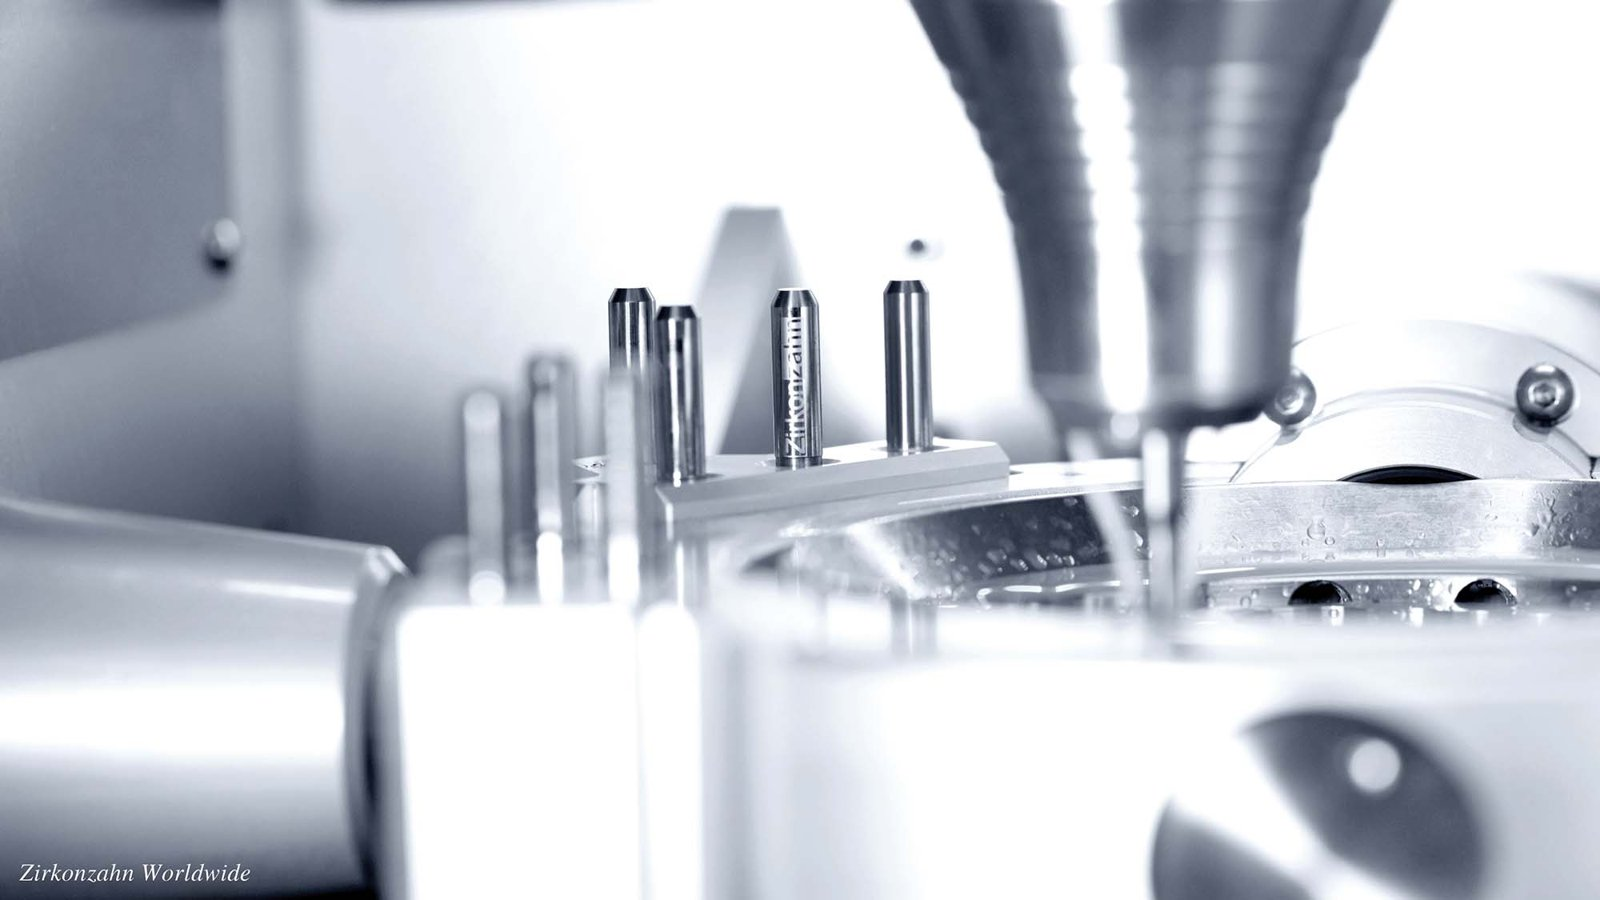
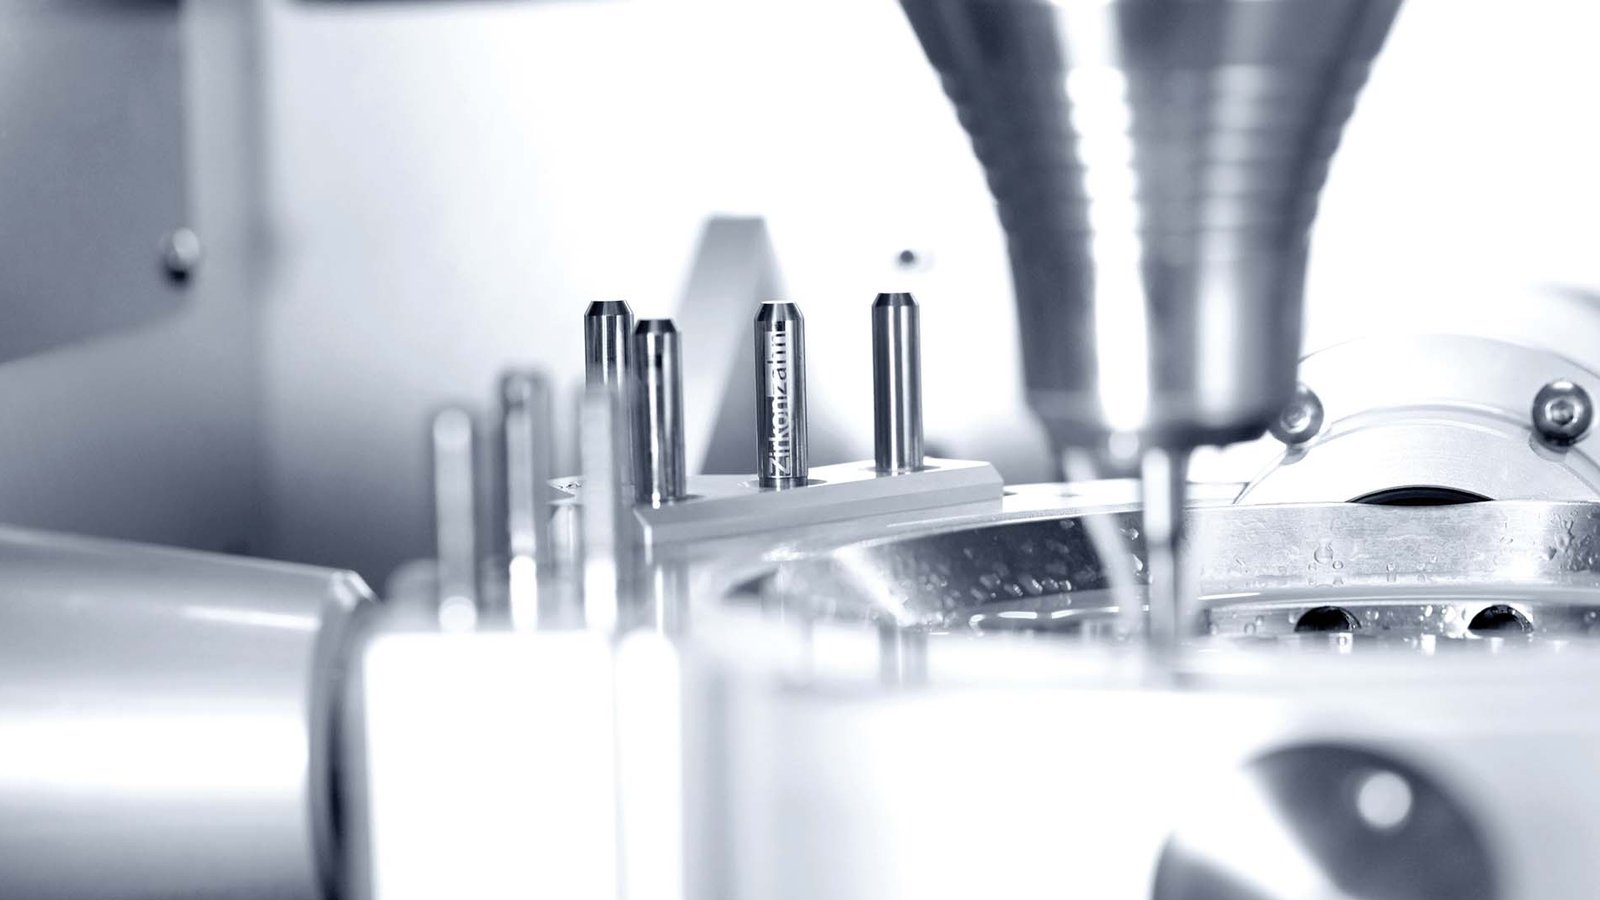
Technologie: nové fotky frézy M1 (celek a detail) bez vodoznaku

Changed region(s): [[0.0, 0.0, 1.0, 1.0], [0.9688, 0.3111, 1.0, 0.3422], [0.9062, 0.3422, 0.9375, 0.3733]]

diff --git a/index.html b/index.html
@@ -476,11 +476,11 @@
 
       <div class="tech__photos">
         <figure class="tech__photo tech__photo--wide">
-          <img src="img/zz-m1-celek.jpg" width="1600" height="900" loading="lazy" alt="Fréza Zirkonzahn – pracovní prostor s rotačním držákem polotovarů">
+          <img src="img/zz-m1-celek.jpg?v=2" width="1600" height="900" loading="lazy" alt="Fréza Zirkonzahn – pracovní prostor s rotačním držákem polotovarů">
           <figcaption>Zirkonzahn · simultánní 5osé frézování</figcaption>
         </figure>
         <figure class="tech__photo">
-          <img src="img/zz-m1-detail.jpg" width="1600" height="900" loading="lazy" alt="Detail zásobníku nástrojů frézy">
+          <img src="img/zz-m1-detail.jpg?v=2" width="1600" height="900" loading="lazy" alt="Detail zásobníku nástrojů frézy">
           <figcaption>Automatická výměna nástrojů</figcaption>
         </figure>
         <figure class="tech__photo">
